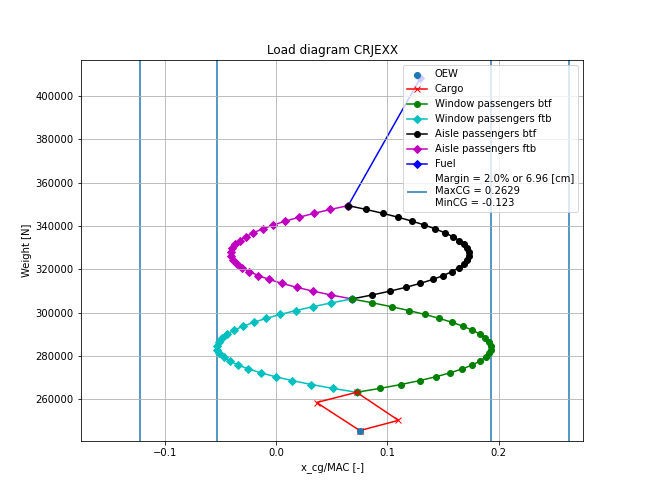
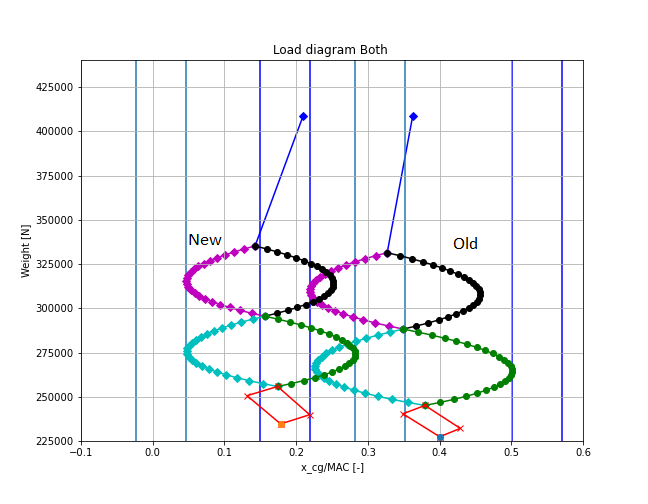
asd

diff --git a/mass_calculation2.py b/mass_calculation2.py
@@ -192,25 +192,18 @@ def loaddiagram():
     plt.scatter(xcg_oew, OEW, zorder = 6, label='OEW')
     plt.xlabel('x_cg/MAC [-]')
     plt.ylabel('Weight [N]')
-    plt.title('Load diagram CRJ1000')
+    plt.title('Load diagram Both ')
     plt.plot(cargo_points[0],cargo_points[1], 'r', marker = 'x', zorder = 5, label = 'Cargo')
     plt.plot(window_pointsbtf[0],window_pointsbtf[1], 'g', marker = 'o', zorder = 4, label = 'Window passengers btf')
     plt.plot(window_pointsftb[0],window_pointsftb[1], 'c', marker = 'D', zorder = 3, label = 'Window passengers ftb')
     plt.plot(aisle_pointsbtf[0],aisle_pointsbtf[1], 'k', marker = 'o', zorder = 2, label = 'Aisle passengers btf')
     plt.plot(aisle_pointsftb[0],aisle_pointsftb[1], 'm', marker = 'D', zorder = 1, label = 'Aisle passengers ftb')
     plt.plot(fuel_point[0],fuel_point[1], 'b', marker = 'D', zorder = 0, label = 'Fuel')
-    plt.vlines(x = max_cg, ymin = min_weight/1.02, ymax = max_weight*1.02, zorder =0, label = 'Margin = '+ str(round((margin)*100,2))+'% or '+str(round(margin*MAC*100,4))+' [cm]\nMaxCG = '+str(round(max_margin_cg,4))+'\nMinCG = '+str(round(min_margin_cg,4)))
-    plt.vlines(x = min_cg, ymin = min_weight/1.02, ymax = max_weight*1.02, zorder=0)
-    plt.vlines(x = max_margin_cg, ymin = min_weight/1.02, ymax = max_weight*1.02, zorder= 0)
-    plt.vlines(x = min_margin_cg, ymin = min_weight/1.02, ymax = max_weight*1.02, zorder = 0)
-    plt.xlim(min_margin_cg*0.7, max_margin_cg*1.05)
-    plt.ylim(min_weight/1.02, max_weight*1.02)
-    plt.legend(loc='upper right')
-    plt.grid()
-    plt.savefig('LoaddiagramCRJ1000.png')
-    plt.show()
+    plt.vlines(x = max_cg, ymin = 225000, ymax = 440000, color = 'b', zorder =0, label = 'Margin = '+ str(round((margin)*100,2))+'% or '+str(round(margin*MAC*100,4))+' [cm]\nMaxCG = '+str(round(max_margin_cg,4))+'\nMinCG = '+str(round(min_margin_cg,4)))
+    plt.vlines(x = min_cg, ymin = 225000, ymax = 440000, color = 'b', zorder=0)
+    plt.vlines(x = max_margin_cg, ymin = 225000, ymax = 440000, color = 'b', zorder= 0)
+    plt.vlines(x = min_margin_cg, ymin = 225000, ymax = 440000, color = 'b', zorder = 0)
     
-def loaddiagram_crjexx():
     #Constants
     xcg_datum = 3.6576 #m
     x_LEMAC = 22.866 #m
@@ -339,27 +332,21 @@ def loaddiagram_crjexx():
     
 
     #PLOTS
-
-    fig = plt.figure(figsize=(9, 7))
     plt.scatter(xcg_oew, OEW, zorder = 6, label='OEW')
-    plt.xlabel('x_cg/MAC [-]')
-    plt.ylabel('Weight [N]')
-    plt.title('Load diagram CRJEXX')
     plt.plot(cargo_points[0],cargo_points[1], 'r', marker = 'x', zorder = 5, label = 'Cargo')
     plt.plot(window_pointsbtf[0],window_pointsbtf[1], 'g', marker = 'o', zorder = 4, label = 'Window passengers btf')
     plt.plot(window_pointsftb[0],window_pointsftb[1], 'c', marker = 'D', zorder = 3, label = 'Window passengers ftb')
     plt.plot(aisle_pointsbtf[0],aisle_pointsbtf[1], 'k', marker = 'o', zorder = 2, label = 'Aisle passengers btf')
     plt.plot(aisle_pointsftb[0],aisle_pointsftb[1], 'm', marker = 'D', zorder = 1, label = 'Aisle passengers ftb')
     plt.plot(fuel_point[0],fuel_point[1], 'b', marker = 'D', zorder = 0, label = 'Fuel')
-    plt.vlines(x = max_cg, ymin = min_weight/1.02, ymax = max_weight*1.02, zorder =0, label = 'Margin = '+ str(round((margin)*100,2))+'% or '+str(round(margin*MAC*100,4))+' [cm]\nMaxCG = '+str(round(max_margin_cg,4))+'\nMinCG = '+str(round(min_margin_cg,4)))
-    plt.vlines(x = min_cg, ymin = min_weight/1.02, ymax = max_weight*1.02, zorder=0)
-    plt.vlines(x = max_margin_cg, ymin = min_weight/1.02, ymax = max_weight*1.02, zorder= 0)
-    plt.vlines(x = min_margin_cg, ymin = min_weight/1.02, ymax = max_weight*1.02, zorder = 0)
-    plt.xlim(min_margin_cg*2, max_margin_cg*1.05)
-    plt.ylim(min_weight/1.02, max_weight*1.02)
-    plt.legend(loc='upper right')
+    plt.vlines(x = max_cg, ymin = 225000, ymax = 440000, zorder =0, label = 'Margin = '+ str(round((margin)*100,2))+'% or '+str(round(margin*MAC*100,4))+' [cm]\nMaxCG = '+str(round(max_margin_cg,4))+'\nMinCG = '+str(round(min_margin_cg,4)))
+    plt.vlines(x = min_cg, ymin = 225000, ymax = 440000, zorder=0)
+    plt.vlines(x = max_margin_cg, ymin = 225000, ymax = 440000, zorder= 0)
+    plt.vlines(x = min_margin_cg, ymin = 225000, ymax = 440000, zorder = 0)
+    plt.xlim(-0.1, 0.6)
+    plt.ylim(225000, 440000)
     plt.grid()
-    plt.savefig('LoaddiagramCRJEXX.png')
+    plt.savefig('LoaddiagramCOMBINED.png')
     plt.show()
 
 
@@ -384,7 +371,7 @@ if __name__ == "__main__":
     #xcg_measurement1 = calculate_cg(fuel_used, fuel_start, payload_masses, payload_data)
     #print(f"\nElevator Trim Curve: Measurement 1 \nx_cg is {round(xcg_measurement1, 3)} m.")
     test = loaddiagram()
-    test2 = loaddiagram_crjexx()
+    #test2 = loaddiagram_crjexx()
     # Delta xcg calculation, Steven moves between the pilots at 131:
     #   fuel_used1 = 768    # [lbs]
     #   fuel_used2 = 801    # [lbs]
